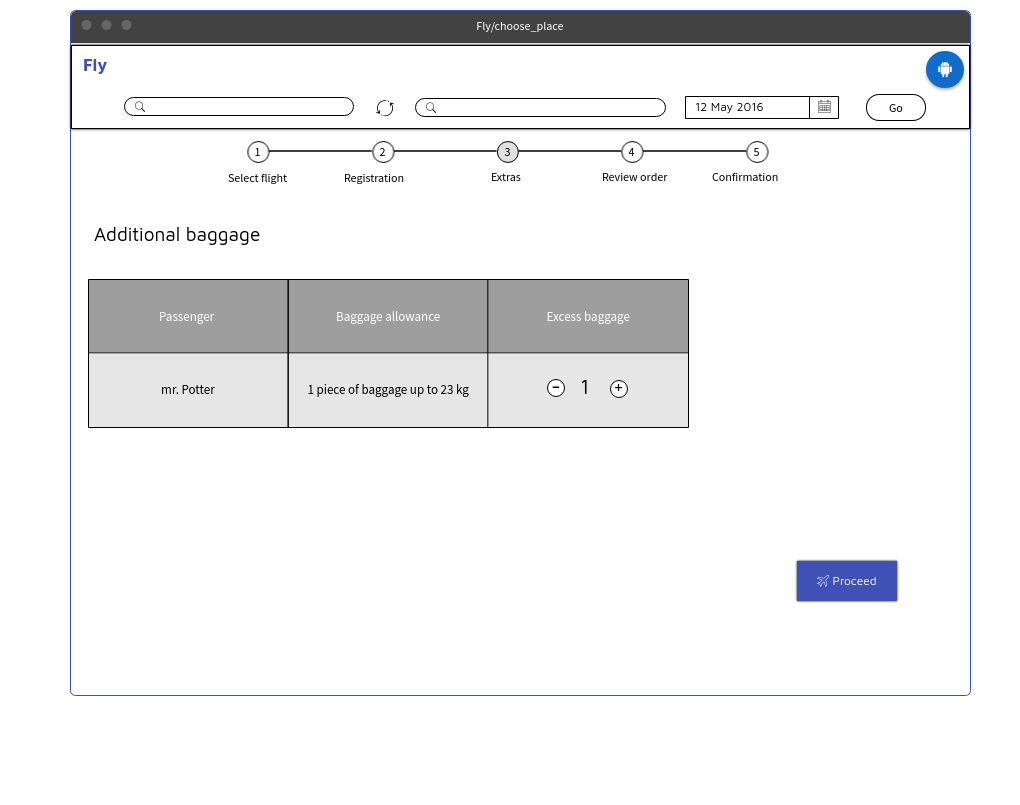
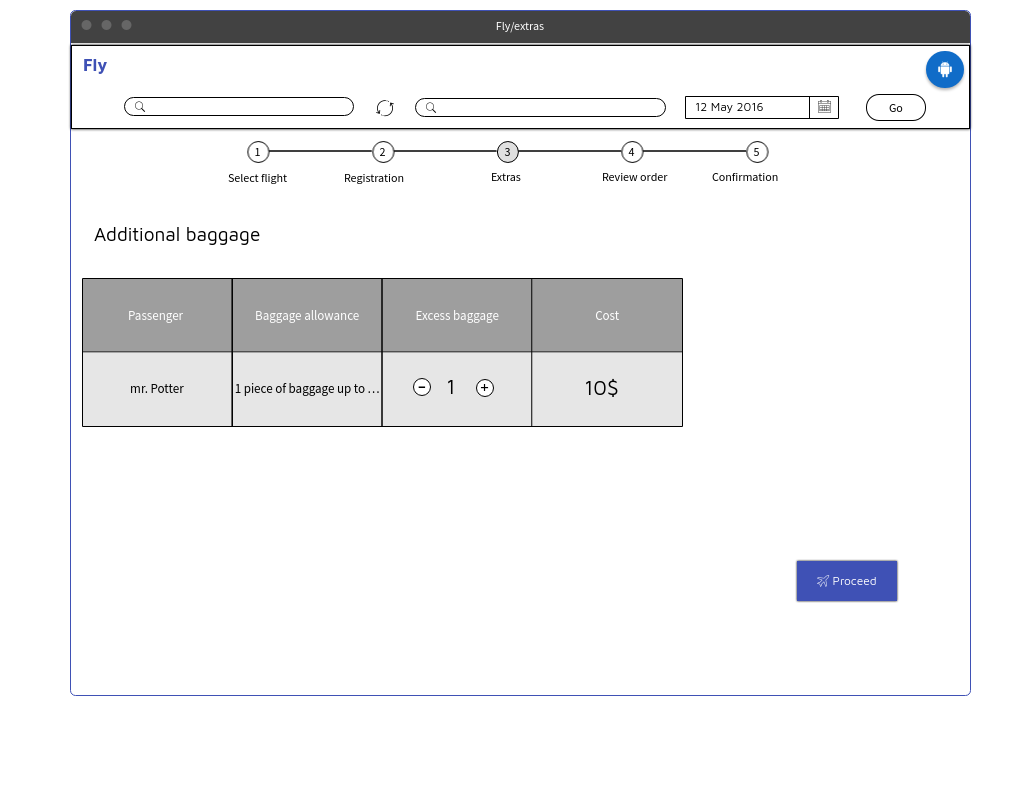
Add use case diagramm

diff --git a/documentation/diagrams/UML Diagramms.md b/documentation/diagrams/UML Diagramms.md
@@ -1,0 +1,127 @@
+# UML Diagramms
+### Содержание
+1. [Диаграмма прецедентов](#1)
+  1.1. [Актеры](#1.1) <br>
+  1.2. [Варианты использования](#1.2) <br>
+	  1.2.1. [Выбор рейса](#1.2.1) <br>
+	  1.2.2. [Регистрация](#1.2.2) <br>
+	  1.2.3. [Ввод дополнительной информации о багаже](#1.2.3) <br>
+	  1.2.4. [Просмотр заказа](#1.2.4) <br>
+	  1.2.5. [Подтверждение заказа](#1.2.5) <br>
+ 
+### 1. Диаграмма прецедентов <a name="1"></a> 
+![Главная страница](https://raw.githubusercontent.com/MaximUlianov/Fly-project/master/documentation/mockups/Page_1.png)
+
+#### 1.1. Актеры <a name="1.1"></a>
+| Актёр | Описание | 
+|:---|:---|
+| Пользователь | Человек, которому нужно заказать билет на определенный рейс |
+| Scyscanner API | Внешняя система, которая предоставляет доступные рейсы |
+
+#### 1.2. Варианты использования <a name="1.2"></a>
+##### 1.2.1. Поток событий для прецедента "Выбор рейса" <a name="1.2.1"></a>:
+
+**Описание**:
+Вариант использования "Выбор рейса" позволяет пользователю выбрать наиболее удобный для него рейс.
+
+**Предусловия**:
+Действие происходит, когда пользователь вводит информацию о пункте вылета и назначеня, а также дату отправления и нажимает кнопку <GO>.
+
+**Поток событий**:
+Основной поток <<Просмотр рейсов>>:
+ 1. Система загружает доступные рейсы исходя из введенных пользователем критерий.
+ 2. Система отображает информацию о рейсах:
+  - Время вылета и прибытия
+  - Название перевозщика
+  - Стоимость одного билета
+ 3. Пользователь выбирает для себя наиболее подходящий рейс и нажимает на кнопку <Buy>.
+ 4. Выполнение переходит на следующий этап "Регистрация".
+ 
+Альтернативный поток <<Фильтрация рейсов>>:
+ 1. Пользователь вводит информацию о месте отправления и прибытия, даты вылета туда и обратно.
+ 2. Пользователь вводит данные о времени вылета и прибытия.
+ 3. Выполнение переходит на основной поток "Просмотр рейсов".
+ 
+ Альтернативный поток <<Поиск рейсов>>:
+ 1. Пользователь вводит информацию о месте отправления и прибытия, даты вылета. 
+ 2. Внешняя система Skyscanner API предоставляет информацию о доступных рейсах.
+ 3. Выполнение переходит на основной поток "Просмотр рейсов".
+ 
+##### 1.2.2. Поток событий для прецедента "Регистрация" <a name="1.2.2"></a>:
+
+**Описание**:
+Вариант использования "Регистрация" позволяет пользователю ввести необходимые личные данные для заказа билетов.
+
+**Предусловия**:
+Действие происходит после того, как пользователь на этапе "Просмотр рейсов" нажал кнопку <Buy>.
+
+**Поток событий**:
+Основной поток:
+1. Пользователь вводит следующие данные в соответсвующие поля:
+  - Имя.
+  - Фамилия.
+  - Дата рождения.
+  - Серийный номер пасспорта.
+  - Пароль.
+  - Свой контактный e-mail.
+ **Заметка**: все поля во время ввода валидируются системой и в случае ошибки будет показано соответсвующее сообщение.
+2. Пользователь нажимает на кнопку "Proceed registration".
+3. Выполнение переходит на основной поток прецедента "Ввод дополнительной иформации о багаже". 
+
+##### 1.2.3. Поток событий для прецедента "Ввод дополнительной информации о багаже" <a name="1.2.3"></a>: 
+
+**Описание**:
+Вариант использования "Ввод дополнительной информации о багаже" позволяет пользователю ввести данные о количестве дополнительного багажа.
+
+**Предусловия**:
+Действие происходит после того, как пользователь:
+1. В случае, если регистрация выполнена ранее, нажал на кнопку "Buy" на этапе выбора рейса.
+2. Если нет, то действие происходит после нажатия на кнопку "Proceed registration" на этапе "Регистрация".
+
+**Поток событий**:
+Основной поток:
+1. Пользователь вводит количество дополнительного багажа в килограммах.
+2. Система выполняет вычисление его стоимости.
+3. Пользователь нажимает кнопку "Proceed":
+  - Система добавляет стоимость багажа к стоимости билета.
+  - Выполнение переходит на основной поток прецедента "Просмотр заказа".
+
+##### 1.2.4. Поток событий для прецедента "Просмотр заказа" <a name="1.2.4"></a>: 
+
+**Описание**:
+Вариант использования "Просмотр заказа" позволяет пользователю просмотреть все данные, выбранные и введенные им во время оформления.
+
+**Предусловия**:
+Действие происходит после того, как пользователь нажал кнопку "Proceed" на этапе "Ввод дополнительной информации о багаже".
+
+**Поток событий**:
+Основной поток:
+1. Система выводит на экран следующую информацию:
+  - О выбранном рейсе.
+  - О введенных пользователем личных данных.
+  - О количестве дополнительного багажа.
+2. Пользователь проверяет информацию и нажимает на кнопку "Pay".
+3. Выполнение переходит на основной поток прецедента "Подтверждение заказа".
+
+##### 1.2.5. Поток событий для прецедента "Подтверждение заказа" <a name="1.2.5"></a>: 
+
+**Описание**:
+Вариант использования "Подтверждение заказа" позволяет отправлять пользователю заказанные билеты на e-mail и продолжить заказ билетов.
+
+**Предусловия**:
+Действие происходит после того, как пользователь нажал на конопку "Pay" на этапе "Просмотр заказа".
+
+**Поток событий**:
+Основной поток:
+1. Система выводит на экран сообщение о том, что заказ был успешно завершен.
+2. Система отправляет билеты на указанный при регистрации e-mail.
+3. Пользователь нажимает на кнопку "Continue to order".
+4. Выполнение переходит на основной поток прецедента "Выбор рейса".
+
+ 
+ 
+ 
+ 
+ 
+ 
+ 
